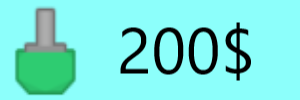
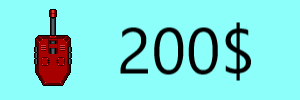
add animations

Changed region(s): [[0.03, 0.06, 0.27, 0.96]]

diff --git a/levels/level.py b/levels/level.py
@@ -12,47 +12,8 @@ settings = load_settings()
 SCREEN_WIDTH = settings['SCREEN_WIDTH']
 SCREEN_HEIGHT = settings['SCREEN_HEIGHT']
 
-def create_turret(mouse_pos, turret_image, turret_group, world, level):
-    x_coord, y_coord = mouse_pos[0] // c.TILE_SIZE, mouse_pos[1] // c.TILE_SIZE
 
-    mouse_tile_num = (y_coord * c.COLUMNS) + x_coord
 
-    if level == "level1":
-        if world.tile_map[mouse_tile_num] in [95, 148, 145, 7, 10]:
-            # Check if turret is already there
-            is_space_free = True
-            for turret in turret_group:
-                if x_coord == turret.tile_x and y_coord == turret.tile_y:
-                    is_space_free = False
-                    break
-
-            if is_space_free:
-                new_turret = Turret(turret_image, x_coord, y_coord)
-                turret_group.add(new_turret)
-    elif level == "level2":
-        if world.tile_map[mouse_tile_num] in [115, 165, 168, 30, 27]:
-            # Check if turret is already there
-            is_space_free = True
-            for turret in turret_group:
-                if x_coord == turret.tile_x and y_coord == turret.tile_y:
-                    is_space_free = False
-                    break
-
-            if is_space_free:
-                new_turret = Turret(turret_image, x_coord, y_coord)
-                turret_group.add(new_turret)
-    elif level == "level3":
-        if world.tile_map[mouse_tile_num] in [667, 579, 582, 717, 720]:
-            # Check if turret is already there
-            is_space_free = True
-            for turret in turret_group:
-                if x_coord == turret.tile_x and y_coord == turret.tile_y:
-                    is_space_free = False
-                    break
-
-            if is_space_free:
-                new_turret = Turret(turret_image, x_coord, y_coord)
-                turret_group.add(new_turret)
 
 class RestartButton():
     def __init__(self, x, y, text, level):
@@ -74,6 +35,29 @@ class RestartButton():
         load_level(self.level)
 
 def load_level(level):
+
+    def create_turret():
+        x_coord, y_coord = mouse_pos[0] // c.TILE_SIZE, mouse_pos[1] // c.TILE_SIZE
+        turret_places = {}
+        turret_places["level1"] = [95, 148, 145, 7, 10]
+        turret_places["level2"] = [115, 165, 168, 30, 27]
+        turret_places["level3"] = [667, 579, 582, 717, 720]
+
+        mouse_tile_num = (y_coord * c.COLUMNS) + x_coord
+
+        if world.tile_map[mouse_tile_num] in turret_places[level]:
+            # Check if turret is already there
+            is_space_free = True
+            for turret in turret_group:
+                if x_coord == turret.tile_x and y_coord == turret.tile_y:
+                    is_space_free = False
+                    break
+
+            if is_space_free:
+                new_turret = Turret(turret_sheet, x_coord, y_coord)
+                turret_group.add(new_turret)
+
+
     # Initialize the game
     pg.init()
     clock = pg.time.Clock()
@@ -84,13 +68,16 @@ def load_level(level):
     placing_turrets = False
     game_over = False
 
+    # Animations
+    turret_sheet = pg.image.load("graphics/turrets/turret1_animation.png").convert_alpha()
+
+
     # Images
-    enemy_image = pg.image.load("graphics/enemies/integrate.png").convert_alpha()
     map_image = pg.image.load("graphics/maps/" + level + ".png").convert_alpha()
-    turret_image = pg.image.load("graphics/turrets/towerDefense_tile249.png").convert_alpha()
+    turret_image = pg.image.load("graphics/turrets/turret1.png").convert_alpha()
     turret_button_image = pg.image.load("graphics/buttons/turret1_button.png").convert_alpha()
     cancel_button_image = pg.image.load("graphics/buttons/cancel_button.png").convert_alpha()
-    cursor_turret = pg.image.load("graphics/turrets/towerDefense_tile249.png").convert_alpha()
+    cursor_turret = pg.image.load("graphics/turrets/turret1.png").convert_alpha()
     enemy_image = pg.image.load("graphics/enemies/integrate.png").convert_alpha()
     enemy_image = pg.transform.scale(enemy_image, (enemy_image.get_width() * 1/8, enemy_image.get_height() * 1/8))
 
@@ -105,7 +92,7 @@ def load_level(level):
     # Enemies parameters
     last_enemy_spawn = 0
     last_speed_change = 0
-    last_enemy_speed = 20
+    last_enemy_speed = 2
     first_enemy = Enemy(world.waypoints, enemy_image, last_enemy_speed)
 
     # Create groups
@@ -121,6 +108,8 @@ def load_level(level):
         if game_over:
             break
 
+
+
         for event in pg.event.get():
                 if event.type == pg.QUIT:
                     pg.quit()
@@ -130,7 +119,7 @@ def load_level(level):
                     mouse_pos = pg.mouse.get_pos()
                     if mouse_pos[0] < SCREEN_WIDTH and mouse_pos[1] < SCREEN_HEIGHT:
                         if placing_turrets:
-                            create_turret(mouse_pos, turret_image, turret_group, world, level)
+                            create_turret()
 
         current_time = pg.time.get_ticks()
         # We spawn a new enemy every 5 seconds and increase the speed every 10 seconds
@@ -141,6 +130,9 @@ def load_level(level):
         if current_time - last_enemy_spawn > 10000:
             last_enemy_speed += 0.1
             last_speed_change = current_time
+
+        turret_group.update()
+
 
         # Draw
         world.draw(screen)

diff --git a/levels/turret.py b/levels/turret.py
@@ -3,14 +3,42 @@ import constants as c
 
 
 class Turret(pg.sprite.Sprite):
-    def __init__(self, image, tile_x, tile_y):
+    def __init__(self, sprite_sheet, tile_x, tile_y):
         pg.sprite.Sprite.__init__(self)
+        self.cooldown = 1500
+        self.last_shot = pg.time.get_ticks()
+
         self.tile_x = tile_x
         self.tile_y = tile_y
 
         self.x = (self.tile_x + 0.5) * c.TILE_SIZE
         self.y = (self.tile_y + 0.5) * c.TILE_SIZE
 
-        self.image = image
+        self.sprite_sheet = sprite_sheet
+        self.animation_list = self.load_images()
+        self.frame_index = 0
+        self.update_time = pg.time.get_ticks()
+
+        self.image = self.animation_list[self.frame_index]
         self.rect = self.image.get_rect()
         self.rect.center = (self.x, self.y)
+
+    def load_images(self):
+        size = self.sprite_sheet.get_height()
+        animation_list = []
+        for x in range(c.ANIMATION_STEPS):
+            tmp_img = self.sprite_sheet.subsurface(x * size, 0, size, size)
+            animation_list.append(tmp_img)
+        return animation_list
+
+    def update(self):
+        if pg.time.get_ticks() - self.last_shot > self.cooldown:
+            self.play_animation()
+
+    def play_animation(self):
+        self.image = self.animation_list[self.frame_index]
+        if pg.time.get_ticks() - self.update_time > c.ANIMATION_DELAY:
+            self.update_time = pg.time.get_ticks()
+            self.frame_index = (self.frame_index + 1) % c.ANIMATION_STEPS
+            if self.frame_index == 0:
+                self.last_shot = pg.time.get_ticks()

diff --git a/constants.py b/constants.py
@@ -2,3 +2,5 @@ ROWS = 16
 COLUMNS = 16
 TILE_SIZE = 64
 SIDE_PANEL = 300
+ANIMATION_STEPS = 8
+ANIMATION_DELAY = 15
